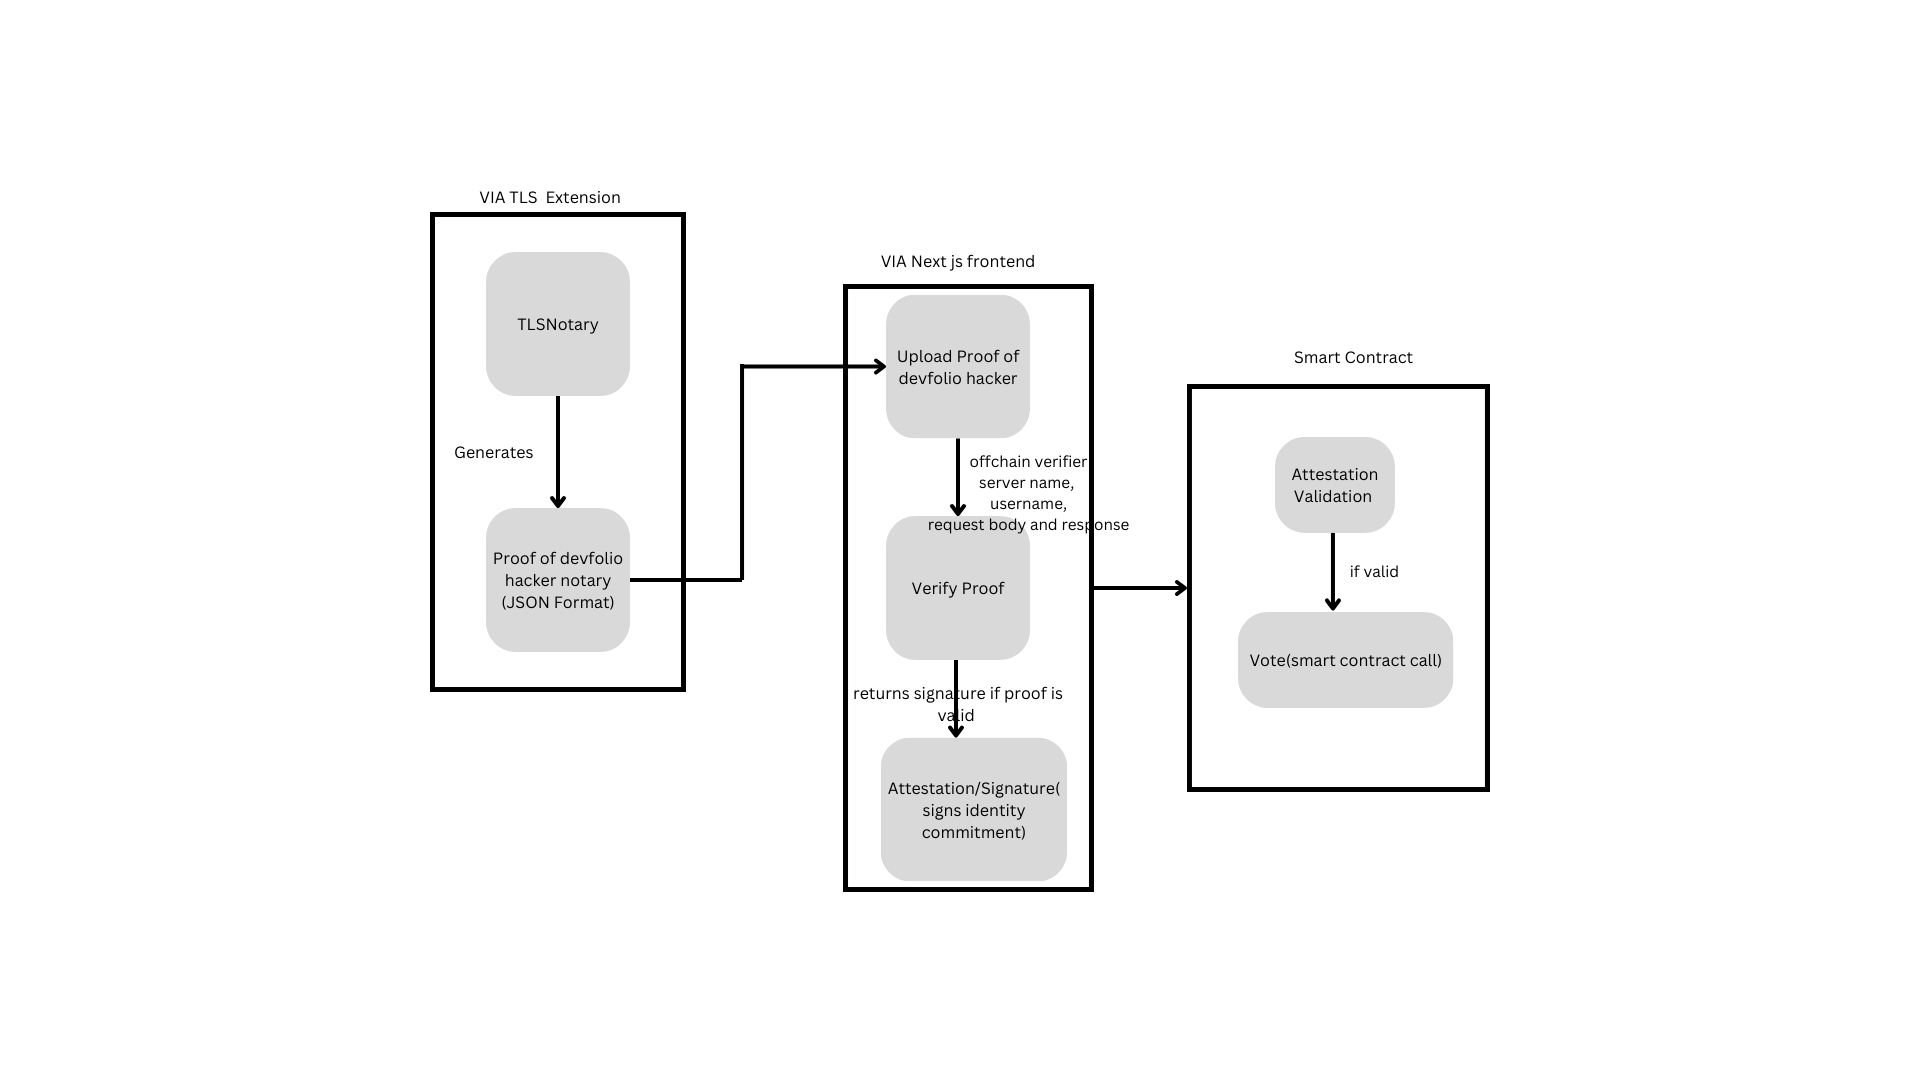
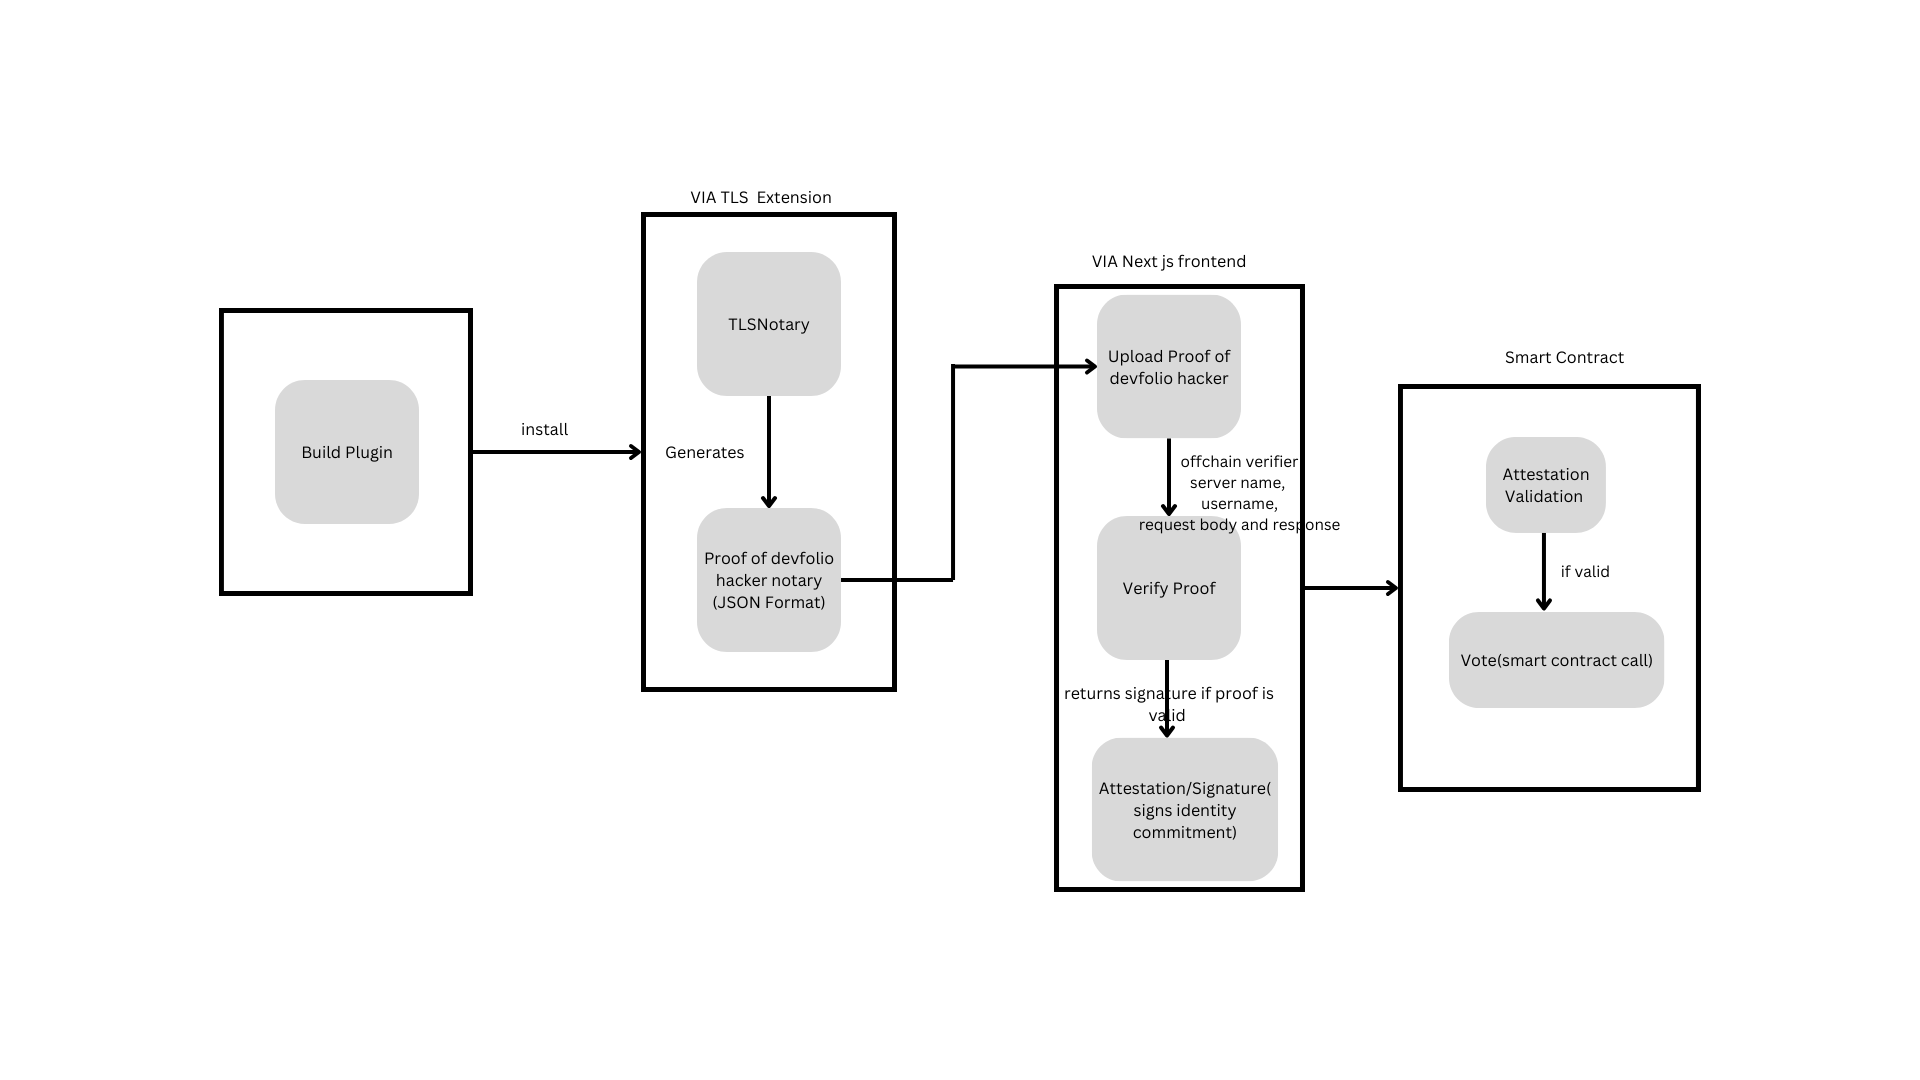
bug fixes

diff --git a/frontend/src/utils/verifySignature.ts b/frontend/src/utils/verifySignature.ts
@@ -1,0 +1,38 @@
+// utils/verifySignature.ts
+import { ec as EC } from 'elliptic';
+import { createHash } from 'crypto';
+
+const ec = new EC('p256');
+
+/**
+ * Verifies an ECDSA signature.
+ * @param idCommit - The identity commitment to verify.
+ * @param publicKeyPem - The public key in PEM format.
+ * @param signatureHex - The signature to verify in hex format.
+ * @returns {boolean} - Returns true if the signature is valid, false otherwise.
+ */
+export function verifySignature(
+    idCommit: string,
+    publicKeyPem: string,
+    signatureHex: string
+): boolean {
+    // Convert identity commitment to bytes (Buffer)
+    const idCommitBytes = Buffer.from(idCommit, 'utf-8');
+
+    // Create a key from the public key PEM
+    const publicKey = ec.keyFromPublic(publicKeyPem, 'pem');
+
+    // Hash the identity commitment
+    const hash = createHash('sha256').update(idCommitBytes).digest();
+
+    // Convert the hex signature to an object
+    const signature = {
+        r: signatureHex.slice(0, signatureHex.length / 2),
+        s: signatureHex.slice(signatureHex.length / 2),
+    };
+
+    // Verify the signature
+    const isValid = publicKey.verify(hash, signature);
+
+    return isValid;
+}

diff --git a/frontend/src/app/api/verify/route.ts b/frontend/src/app/api/verify/route.ts
@@ -1,0 +1,27 @@
+import { NextRequest, NextResponse } from "next/server";
+import { verifySignature } from '../../../utils/verifySignature';
+
+export async function POST(req: NextRequest) {
+    console.log("Entering verify endpoint");
+
+    // Parse the request body as JSON
+    const reqJson = await req.json();
+    console.log("reqJson: ", reqJson);
+    // Destructure the necessary parameters from the parsed JSON
+    const { idCommit, publicKeyPem, signatureHex } = reqJson;
+
+    // Check for missing parameters
+    if (!idCommit || !publicKeyPem || !signatureHex) {
+        return NextResponse.json({ error: 'Missing parameters' }, { status: 400 });
+    }
+
+    // Verify the signature
+    const isValid = verifySignature(idCommit, publicKeyPem, signatureHex);
+
+    // Return appropriate response based on signature validity
+    if (isValid) {
+        return NextResponse.json({ message: 'Signature is valid!' }, { status: 200 });
+    } else {
+        return NextResponse.json({ error: 'Invalid signature.' }, { status: 400 });
+    }
+}

diff --git a/frontend/src/app/api/projects/route.ts b/frontend/src/app/api/projects/route.ts
@@ -10,7 +10,7 @@ export async function GET() {
         'Content-Type': 'application/json',
       },
       body: JSON.stringify({
-        hackathon_slugs: ['ethwarsaw-hackathon-2024'],
+        hackathon_slugs: ["ethkl-24"],
         q: '',
         filter: 'all',
         prizes: [],

diff --git a/tomaru/tlsn-verifier/src/lib.rs b/tomaru/tlsn-verifier/src/lib.rs
@@ -128,7 +128,7 @@ async fn verify(
         Err(err) => return VerifierServerError::Unexpected(eyre!("Verification failed: cannot parse payload: {err}")).into_response()
     };
     let id_commit = (&payload).identity_commitment.clone();
-
+    debug!("Identity Commitment: {:?}", id_commit);
     // The session proof establishes the identity of the server and the commitments
     // to the TLS transcript.
     let session = &payload.proof.session;
